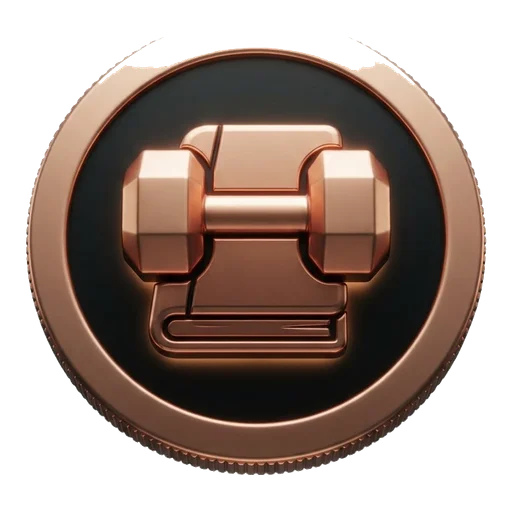
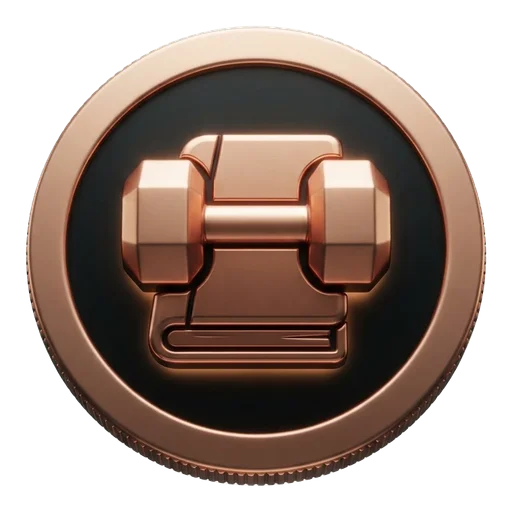
fix(assets): clean medal cutout; generate PNG from now on
- convert-assets --cutout: tight background matte (only near-exact
  background connected to the edge), specks dropped, round medals cut
  along a fitted circle with an anti-aliased edge, and edge colour
  un-mixed from the background — no bitten rims or light halos.
- Iron Ledger bronze and silver re-cut.
- ASSET_PROMPTS: always generate PNG on a flat #0a0d0b background (white
  for dark subjects); --cutout documented.

Changed region(s): [[0.0312, 0.0312, 0.9688, 0.9688], [0.2188, 0.2188, 0.7812, 0.75]]

diff --git a/docs/ASSET_PROMPTS.md b/docs/ASSET_PROMPTS.md
@@ -13,8 +13,15 @@ its placeholder automatically once registered (see §5).
 
 - **Any capable image model works** (GPT-image, Midjourney v7, Imagen, Flux,
   SDXL). Use the same model for a whole set so the style matches.
-- **Output:** PNG with a **transparent background** where noted (otherwise
-  flat `#0a0d0b`), **1024 × 1024**, then convert to WebP (§5).
+- **Output: always PNG** (owner rule, 2026-10-25) — never JPEG: its
+  compression smears the edges and the cutout gets worse. Pick a model or
+  setting that returns PNG (on Weave, Nano Banana 2.1 with
+  `output_format: png`), **1024 × 1024**, then convert to WebP (§5).
+- **Background:** transparent if the model truly supports it. Otherwise a
+  **flat, solid `#0a0d0b`** (the app background, so reflections in polished
+  metal match the app) — except dark subjects (Legendary obsidian medals,
+  Nyra), which go on flat white. Never a gradient, floor, shadow or
+  vignette: `convert-assets.mjs --cutout` keys out one flat colour.
 - **Consistency is everything.**
   - **Characters:** always attach the locked anchors from `design/mascots/`
     (`kix/kix-anchor.png`, `kix/kix-grid.png`, `nyra/nyra-anchor.png`,
@@ -205,9 +212,11 @@ Use a **shield crest** instead of a round medal:
 
 ## 5. After generating — plug them in
 
-1. Convert to WebP (quality 85, ideally ≤ 150 KB) with the bundled script:
+1. Convert to WebP (quality 85, ideally ≤ 150 KB) with the bundled script —
+   add `--cutout` when the PNG has a flat background instead of transparency
+   (round medals are cut along their fitted circle):
    ```bash
-   node scripts/convert-assets.mjs <folder-with-pngs> public/badges
+   node scripts/convert-assets.mjs <folder-with-pngs> public/badges --cutout
    ```
 2. **Medals:** put them in `public/badges/` using the file names above, then
    add each id to `AVAILABLE_ART` in
